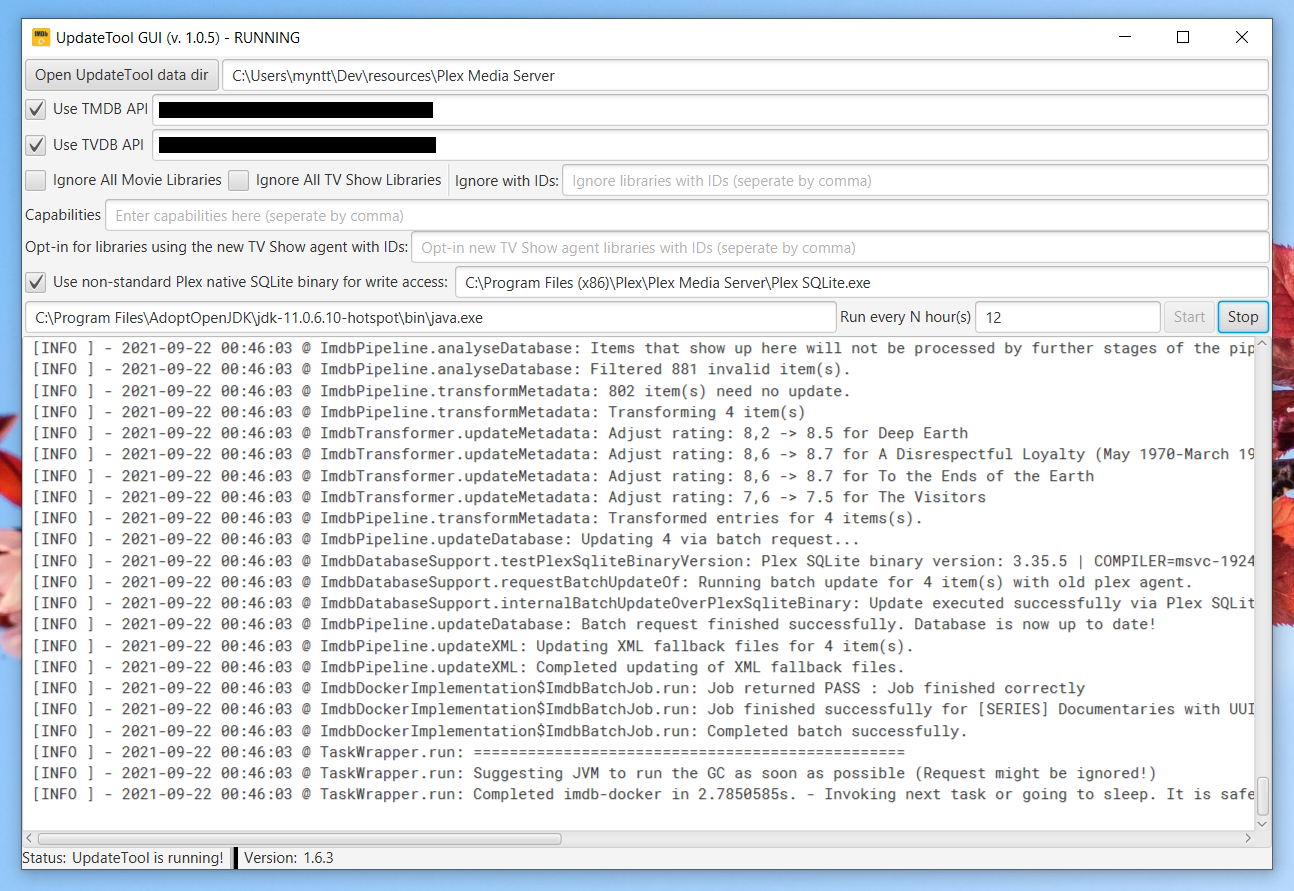
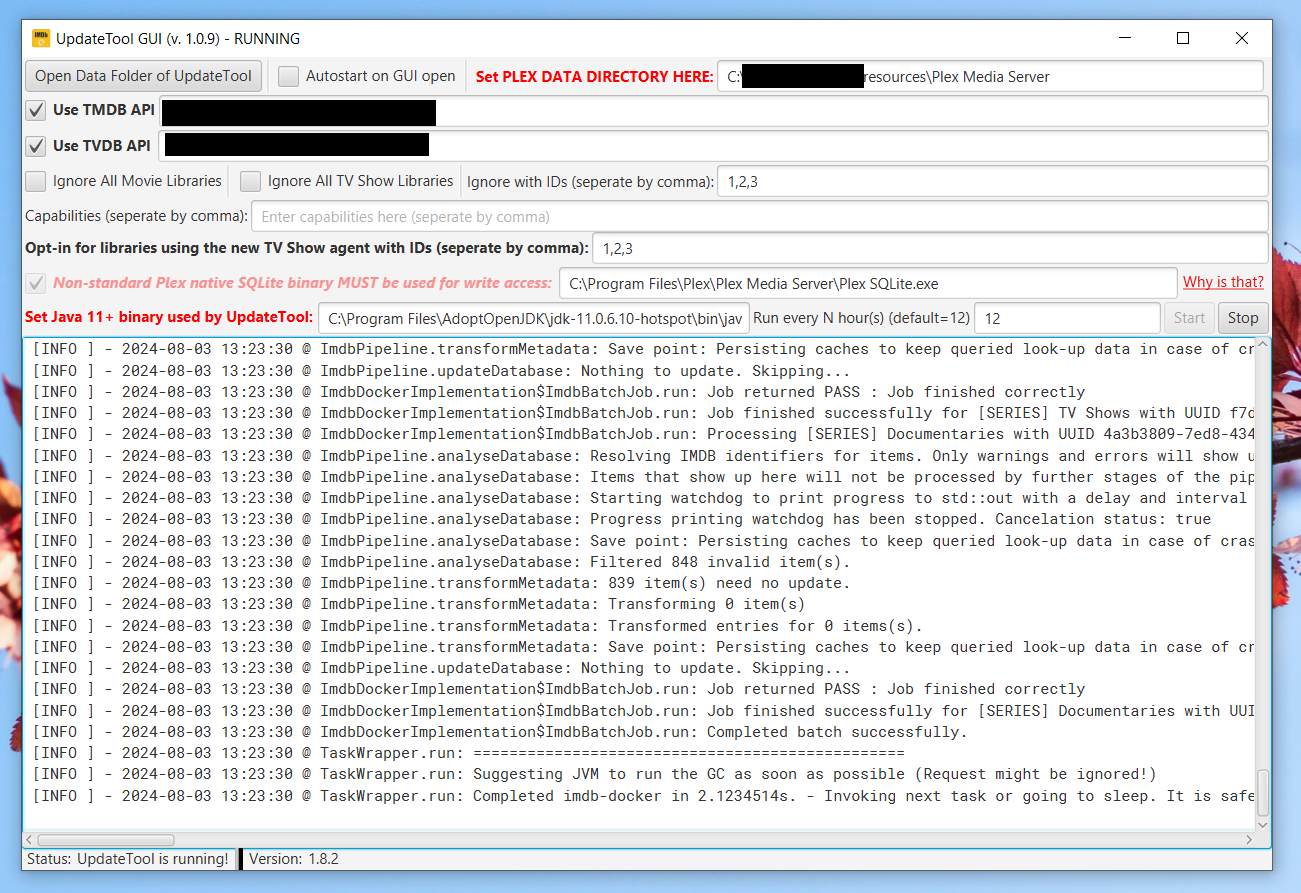
Update to 1.9.0 & GUI to 1.0.9

Changed region(s): [[0.0, 0.0, 1.0, 1.0], [0.8964, 0.0303, 0.9274, 0.0606]]

diff --git a/updatetool-gui/src/main/java/updatetool/gui/Config.java b/updatetool-gui/src/main/java/updatetool/gui/Config.java
@@ -74,10 +74,10 @@ public class Config implements Serializable {
         useTvdb = new SimpleBooleanProperty();
         ignoreMovies = new SimpleBooleanProperty();
         ignoreTv = new SimpleBooleanProperty();
-        usePlexNativeSql = new SimpleBooleanProperty();
+        usePlexNativeSql = new SimpleBooleanProperty(true);
         autostartOnOpen = new SimpleBooleanProperty();
         plexNativeSqlPath.addListener((o, oo, n) -> plexNativeSqlPathV = n.trim());
-        usePlexNativeSql.addListener((o, oo, n) -> usePlexNativeSqlV = n);
+        usePlexNativeSql.addListener((o, oo, n) -> usePlexNativeSqlV = true);
         capabilities.addListener((o, oo, n) -> capabilitiesV = n.trim());
         hours.addListener((o, oo, n) -> hoursV = n.trim());
         plexFolder.addListener((o, oo, n) -> plexFolderV = n.trim());
@@ -106,7 +106,7 @@ public class Config implements Serializable {
         ignoreMovies.set(ignoreMoviesV);
         ignoreTv.set(ignoreTvV);
         hours.set(hoursV);
-        usePlexNativeSql.set(usePlexNativeSqlV);
+        usePlexNativeSql.set(true);
         plexNativeSqlPath.set(plexNativeSqlPathV == null ? "" : plexNativeSqlPathV);
         capabilities.set(capabilitiesV == null ? "" : capabilitiesV);
         autostartOnOpen.set(autostartOnOpenV);
@@ -127,6 +127,7 @@ public class Config implements Serializable {
         plexNativeSqlPathV = "",
         capabilitiesV = "";
 
+    @SuppressWarnings("unused") // We can't remove it not to break configs
     private boolean  
         useTmdbV, 
         useTvdbV, 

diff --git a/updatetool-gui/src/main/java/updatetool/gui/App.java b/updatetool-gui/src/main/java/updatetool/gui/App.java
@@ -158,6 +158,9 @@ public class App extends Application {
         plexsqlcheckbox.selectedProperty().bindBidirectional(INSTANCE.getUsePlexNativeSql());
         autostartChecker.selectedProperty().bindBidirectional(INSTANCE.getAutostartOnOpen());
         
+        // Must always be enabled from now on!
+        plexsqlcheckbox.setSelected(true);
+        
         BooleanBinding p = javabinary.textProperty().isEmpty()
                 .or(Bindings.createBooleanBinding(() -> javabinary.getText().trim().isEmpty(), javabinary.textProperty()))
                 .or(plexFolder.textProperty().isEmpty())
@@ -198,7 +201,8 @@ public class App extends Application {
             });
         });
         
-        SERVICE.submit(() -> { 
+        SERVICE.submit(() -> {
+            runLater(() -> { if(!INSTANCE.getAutostartOnOpen().get()) { stage.toFront(); }});
             checkVersion();
             runLater(() -> parent.setDisable(false));
             runLater(() -> status.setText("Tool loaded."));
@@ -252,6 +256,11 @@ public class App extends Application {
             runLater(() -> log.appendText("Downloaded version: " + version + "\n"));
             runLater(() -> this.version.setText(version));
         }
+    }
+    
+    @FXML
+    void openBrowserForCorruptionUrl() throws Exception {
+        Desktop.getDesktop().browse(new URL("https://github.com/mynttt/UpdateTool/wiki/FAQ:-Database-Corruption-Issues").toURI());
     }
     
     @FXML

diff --git a/src/main/java/updatetool/imdb/ImdbDockerImplementation.java b/src/main/java/updatetool/imdb/ImdbDockerImplementation.java
@@ -65,6 +65,16 @@ public class ImdbDockerImplementation extends Implementation {
         String overrideDatabaseLocation = System.getenv("OVERRIDE_DATABASE_LOCATION");
         String executeUpdatesOverPlexSqliteVersion = System.getenv("USE_PLEX_SQLITE_BINARY_FOR_WRITE_ACCESS");
         
+        Logger.info("DUMP OF ENV_VARS: [{}]",System.getenv());
+        
+        if(executeUpdatesOverPlexSqliteVersion == null) {
+            if(System.getenv("HACK_TO_BYPASS_THIS_ON_ARM_BUILDS") == null) {
+                Logger.error("You have started UpdateTool without the environment variable USE_PLEX_SQLITE_BINARY_FOR_WRITE_ACCESS set to Plex's SQLite binary. Because of database corruption issues in the past it is no longer allowed to run UpdateTool that way.");
+                Logger.error("More information here: https://github.com/mynttt/UpdateTool/wiki/FAQ:-Database-Corruption-Issues");
+                System.exit(-1);
+            }
+        }
+        
         EnumSet<Capabilities> capabilities = CAPABILITIES;
         final List<Capabilities> parsed = new ArrayList<>();
 

diff --git a/CHANGELOG.md b/CHANGELOG.md
@@ -1,3 +1,8 @@
+## 1.9.0
+- Dump of ENV @ bootstrap to diagnose issues with wrongly configured systems in the future
+- Deprecate running SQLite writes without having the Plex SQLite Binary configured to prevent corruptions (if you use the docker this has no impact)
+- If you really want to run via JDBC you can set the environment variable `HACK_TO_BYPASS_THIS_ON_ARM_BUILDS` to any value to bypass this check.
+
 ## 1.8.2
 - `DONT_STRIP_OTHER_RATING_PROVIDERS` capability flag supplied to prevent the removal of other rating provider labels.
 This skips the background step behind `(Remove) Stripping useless badge data (RT, TMDB, TVDB) for: <ITEM>`
